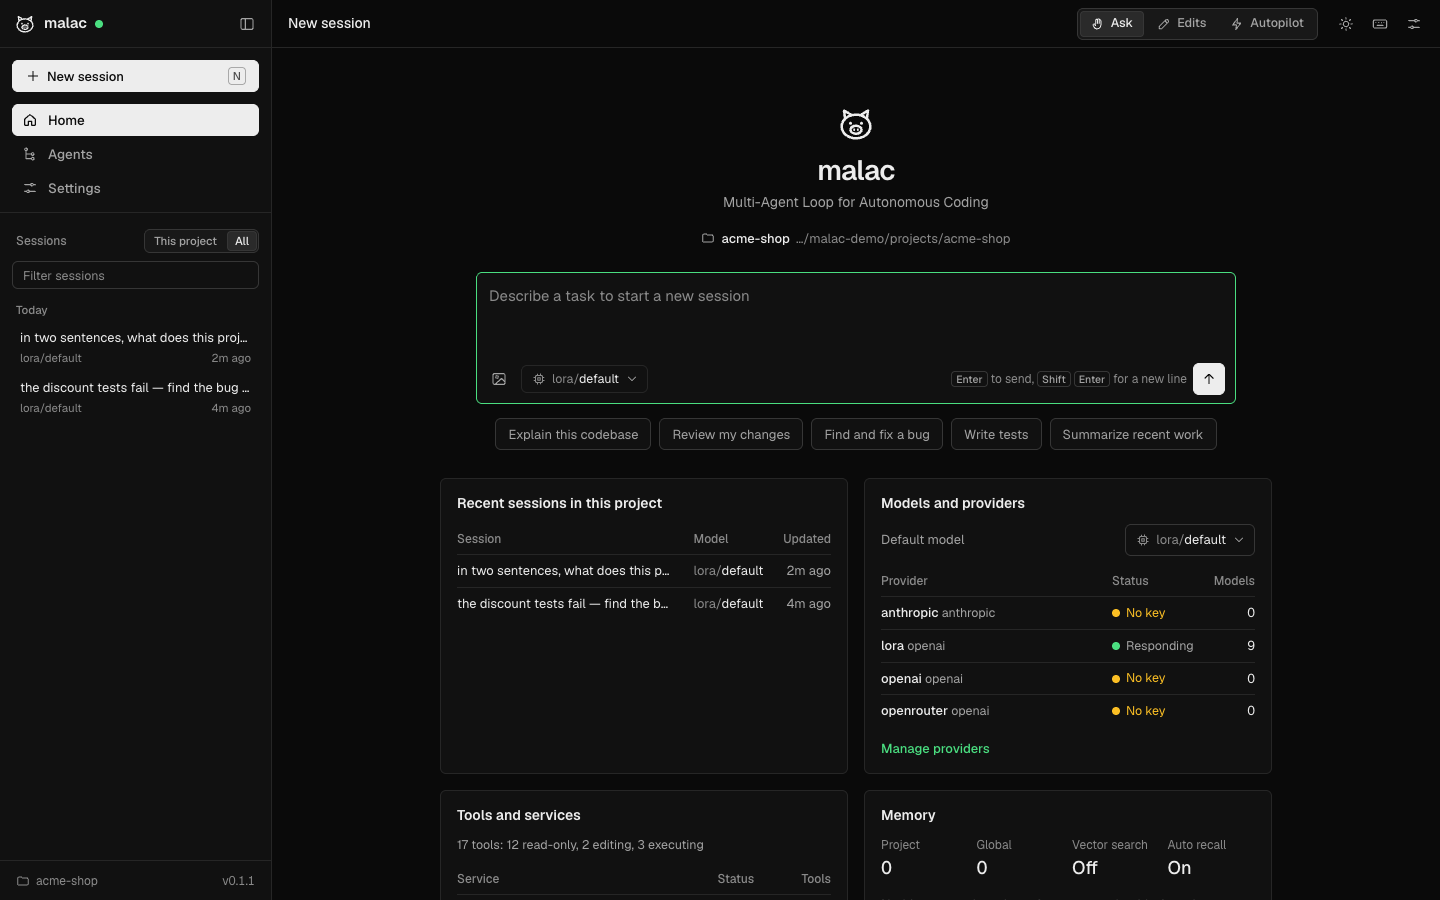
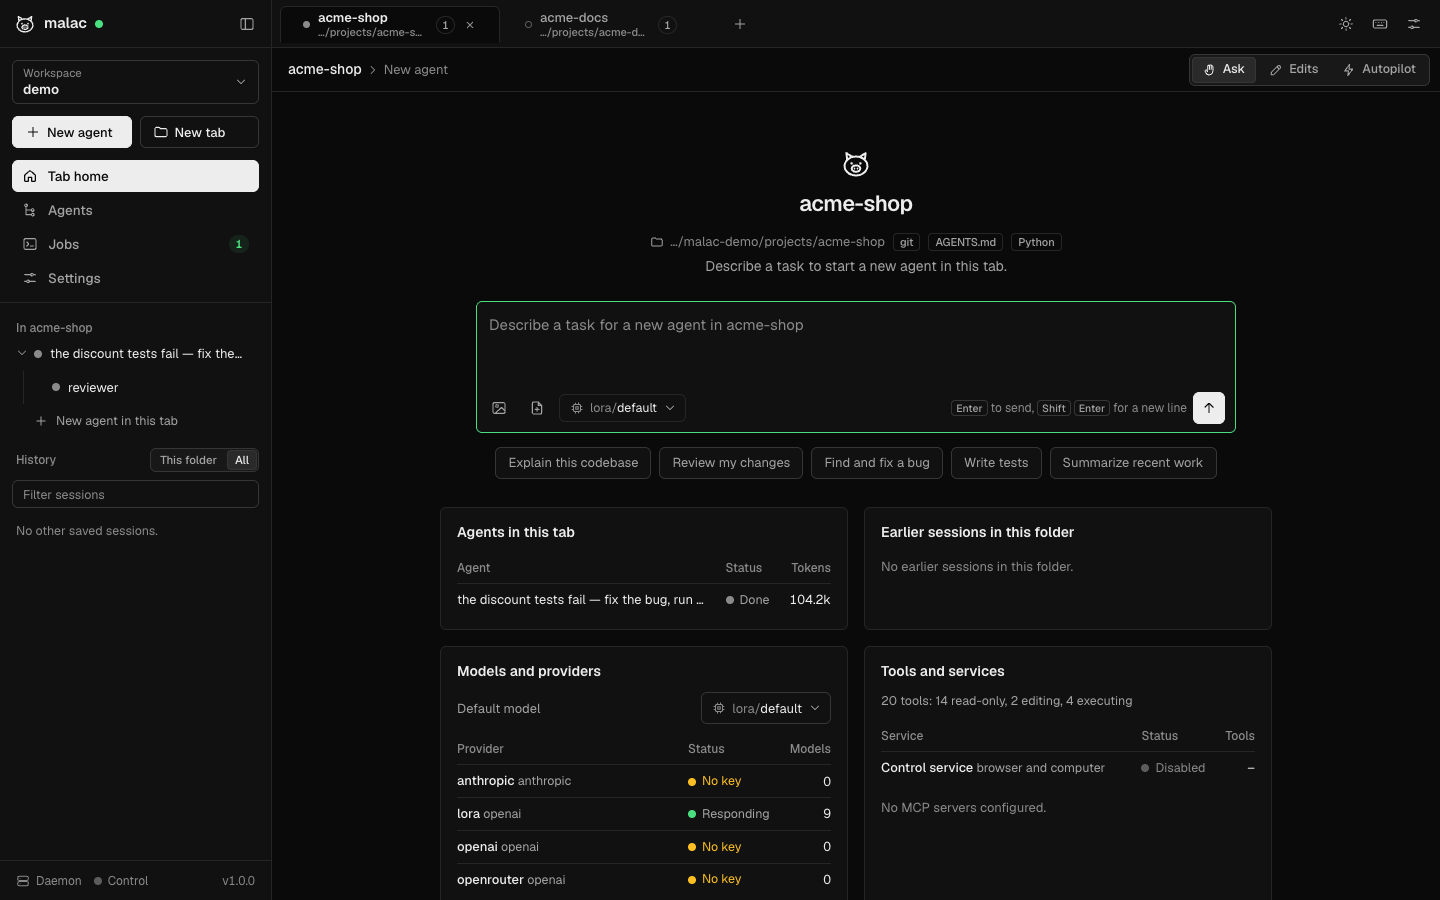
README media for 1.0; hide tokens and home paths in the UIs
- Re-recorded demo GIF and screenshots for the 1.0 terminal and web UI,
  adding the agent map and the Jobs page
- The terminal UI shows web URLs with the token as "…" (copying still
  copies the full URL), so screenshots do not leak it
- The daemon reports the user's home and the web UI shows paths under it
  as ~/…

diff --git a/web/jobs.js b/web/jobs.js
@@ -1,7 +1,7 @@
 // Background jobs: processes agents started with `bash` in the background.
 // A table of every job, and the selected job's log tail.
 
-import { confirmDialog, formatDuration, fullTime, h, plural, relativeTime, setChildren, toast } from "./dom.js";
+import { confirmDialog, displayPath, formatDuration, fullTime, h, plural, relativeTime, setChildren, toast } from "./dom.js";
 import { icon } from "./icons.js";
 import { displayName, jobOutput, killJob, openAgent, renderKeyed, state, tabById } from "./store.js";
 import { statusDot } from "./widgets.js";
@@ -100,9 +100,9 @@ export function jobsView() {
         "dl",
         { class: "kv job-facts" },
         h("dt", {}, "Folder"),
-        h("dd", { class: "path" }, job.cwd),
+        h("dd", { class: "path", title: job.cwd }, displayPath(job.cwd)),
         h("dt", {}, "Log"),
-        h("dd", { class: "path" }, job.log),
+        h("dd", { class: "path", title: job.log }, displayPath(job.log)),
         output?.truncated ? [h("dt", {}, "Shown"), h("dd", {}, `Last ${TAIL_LINES} lines of ${Math.round((output.size ?? 0) / 1024)} KB`)] : null,
       ),
       pre,
@@ -186,7 +186,7 @@ function jobsTable(jobs, selected, select) {
             "td",
             { class: "cell-main" },
             h("button", { class: "row-link", type: "button", "aria-pressed": String(job.id === selected), title: job.command, onclick: () => select(job.id) }, job.command),
-            h("div", { class: "agent-activity ellipsis", title: job.cwd }, tab ? tab.name : job.cwd),
+            h("div", { class: "agent-activity ellipsis", title: displayPath(job.cwd) }, tab ? tab.name : displayPath(job.cwd)),
           ),
           h("td", { class: "cell-status" }, h("span", { class: "status" }, statusDot(status.dot), status.text)),
           h(

diff --git a/web/dom.js b/web/dom.js
@@ -49,8 +49,24 @@ export function baseName(path) {
   return parts.at(-1) ?? String(path ?? "");
 }
 
-export function shortPath(path, keep = 2) {
+let userHome = null;
+
+/** Set from the daemon snapshot so paths under the user's home read as `~/…`. */
+export function setUserHome(home) {
+  userHome = home ? String(home).replace(/\/+$/, "") : null;
+}
+
+/** A path with the user's home replaced by `~`. */
+export function displayPath(path) {
   const value = String(path ?? "");
+  if (userHome && (value === userHome || value.startsWith(`${userHome}/`))) {
+    return `~${value.slice(userHome.length)}`;
+  }
+  return value;
+}
+
+export function shortPath(path, keep = 2) {
+  const value = displayPath(path);
   const parts = value.split("/").filter(Boolean);
   return parts.length > keep ? `…/${parts.slice(-keep).join("/")}` : value;
 }

diff --git a/web/store.js b/web/store.js
@@ -3,7 +3,7 @@
 // agent events) keep it up to date. Also cached REST resources and a
 // per-frame render scheduler.
 
-import { emptyUsage, firstLine, sessionStore, toast, truncate } from "./dom.js";
+import { emptyUsage, firstLine, sessionStore, setUserHome, toast, truncate } from "./dom.js";
 
 const TOKEN_KEY = "malac.token";
 const RECONNECT_MIN_MS = 500;
@@ -293,6 +293,7 @@ export function setResyncHandler(fn) {
 
 function applySnapshot(snapshot) {
   state.daemon = snapshot.daemon;
+  setUserHome(snapshot.daemon.user_home);
   state.version = snapshot.daemon.version;
   state.pageVersion ??= snapshot.daemon.version;
   state.web = { remote: snapshot.daemon.remote, reloadable: !snapshot.daemon.attached };

diff --git a/crates/malac/src/tui/text.rs b/crates/malac/src/tui/text.rs
@@ -284,6 +284,19 @@ pub fn first_line(text: &str) -> &str {
         .unwrap_or_default()
 }
 
+/// A URL for display, with the value of a `token` query parameter replaced
+/// by `…`, so screenshots and shared screens do not leak it.
+pub fn hide_token(url: &str) -> String {
+    match url.find("token=") {
+        Some(start) => {
+            let value = start + "token=".len();
+            let end = url[value..].find('&').map_or(url.len(), |i| value + i);
+            format!("{}…{}", &url[..value], &url[end..])
+        }
+        None => url.to_owned(),
+    }
+}
+
 #[cfg(test)]
 mod tests {
     use super::*;
@@ -365,5 +378,18 @@ mod tests {
         assert_eq!(truncate("short", 8), "short");
         let line = truncate_line(Line::from(vec![Span::raw("abc"), Span::raw("defgh")]), 6);
         assert_eq!(line.to_string(), "abcde…");
+    }
+
+    #[test]
+    fn hides_tokens() {
+        assert_eq!(
+            hide_token("http://127.0.0.1:7700/?token=abc123"),
+            "http://127.0.0.1:7700/?token=…"
+        );
+        assert_eq!(
+            hide_token("http://h/?token=abc&embed=1"),
+            "http://h/?token=…&embed=1"
+        );
+        assert_eq!(hide_token("http://h/"), "http://h/");
     }
 }

diff --git a/crates/malac/src/tui/ui.rs b/crates/malac/src/tui/ui.rs
@@ -428,7 +428,7 @@ fn welcome_text(app: &App) -> Vec<(Line<'static>, Option<Action>)> {
         lines.push((
             field(
                 "web",
-                url,
+                text::hide_token(&url),
                 t.fg(t.accent).add_modifier(Modifier::UNDERLINED),
             ),
             Some(Action::CopyWebUrl),
@@ -659,7 +659,10 @@ fn draw_sidebar(frame: &mut Frame, app: &mut App, area: Rect) {
         lines.push((Line::default(), None));
         lines.push(heading("Web UI"));
         lines.push((
-            Line::styled(text::truncate(url, width).into_owned(), t.fg(t.accent)),
+            Line::styled(
+                text::truncate(&text::hide_token(url), width).into_owned(),
+                t.fg(t.accent),
+            ),
             Some(Action::CopyWebUrl),
         ));
     }

diff --git a/crates/malac/src/tui/app/actions.rs b/crates/malac/src/tui/app/actions.rs
@@ -173,7 +173,9 @@ impl App {
                 ];
                 if let Some(url) = urls.first() {
                     items.push(Item::separator());
-                    items.push(Item::note(text::truncate(url, 48).into_owned()));
+                    items.push(Item::note(
+                        text::truncate(&text::hide_token(url), 48).into_owned(),
+                    ));
                 }
                 items
             }
@@ -585,7 +587,7 @@ impl App {
             .map(|url| {
                 Line::from(vec![
                     Span::styled("  web UI  ", t.dim()),
-                    Span::styled(url, t.fg(t.accent)),
+                    Span::styled(text::hide_token(&url), t.fg(t.accent)),
                 ])
             })
             .collect()

diff --git a/crates/malac/src/protocol.rs b/crates/malac/src/protocol.rs
@@ -449,6 +449,9 @@ pub struct DaemonStatus {
     pub attached: bool,
     /// Whether the server also listens on other interfaces.
     pub remote: bool,
+    /// The user's home directory, so clients can show paths as `~/…`.
+    #[serde(default)]
+    pub user_home: Option<String>,
 }
 
 #[derive(Debug, Clone, PartialEq, Serialize, Deserialize)]

diff --git a/crates/malac/src/tui/tests.rs b/crates/malac/src/tui/tests.rs
@@ -157,6 +157,7 @@ fn snapshot() -> Snapshot {
             clients: 1,
             attached: false,
             remote: false,
+            user_home: None,
         },
         workspaces: vec![summary(WORKSPACE, "default"), summary("w2", "release")],
         workspace: None,

diff --git a/crates/malac/src/daemon/hub.rs b/crates/malac/src/daemon/hub.rs
@@ -288,6 +288,7 @@ impl Hub {
             clients: self.clients.load(Ordering::SeqCst),
             attached: self.is_attached(),
             remote: self.options.remote,
+            user_home: dirs::home_dir().map(|h| h.display().to_string()),
         }
     }
 

diff --git a/README.md b/README.md
@@ -7,7 +7,7 @@
 
 **Multi-Agent Loop for Autonomous Coding.** An autonomous coding agent for the terminal, with a web UI, a VS Code extension, and a control service for the desktop and browser. Written in Rust. (*Malac* is also Hungarian for pig.)
 
-![malac fixing a failing test in the terminal UI](docs/images/demo.gif)
+![malac fixing a failing test, delegating a review to a subagent and showing the agent map](docs/images/demo.gif)
 
 - **CLI first.** `malac <prompt>` starts working immediately. `malac` alone opens an interactive session.
 - **Workspaces that outlive the terminal.** A per-user daemon holds your workspaces: sets of tabs, one per project, each with its own agents. Close the terminal and the agents keep working; open the web UI or another terminal and pick up where they are.
@@ -30,8 +30,9 @@ The name: *malac* is Hungarian for pig, which explains the mascot, and it is qui
 
 | Terminal UI | Web UI |
 |---|---|
-| ![Welcome screen with the malac pig](docs/images/tui-welcome.png) | ![Web UI home, light theme](docs/images/web-home-light.png) |
-| ![A session with tool cards and a running subagent](docs/images/tui-session.png) | ![A web session with an edit diff and a subagent report](docs/images/web-session.png) |
+| ![Welcome screen with the malac pig, two tabs in the header](docs/images/tui-welcome.png) | ![Web UI tab home with the workspace switcher and tab bar](docs/images/web-home-light.png) |
+| ![A session: tool cards, a subagent, the final answer marked in green](docs/images/tui-session.png) | ![A web session with an edit diff and a subagent report](docs/images/web-session.png) |
+| ![The agent map: agents and subagents across tabs](docs/images/tui-agent-map.png) | ![The Jobs page with a background job and its log](docs/images/web-jobs.png) |
 | ![Model picker across providers](docs/images/tui-model-picker.png) | ![Settings](docs/images/web-settings.png) |
 
 <details>
